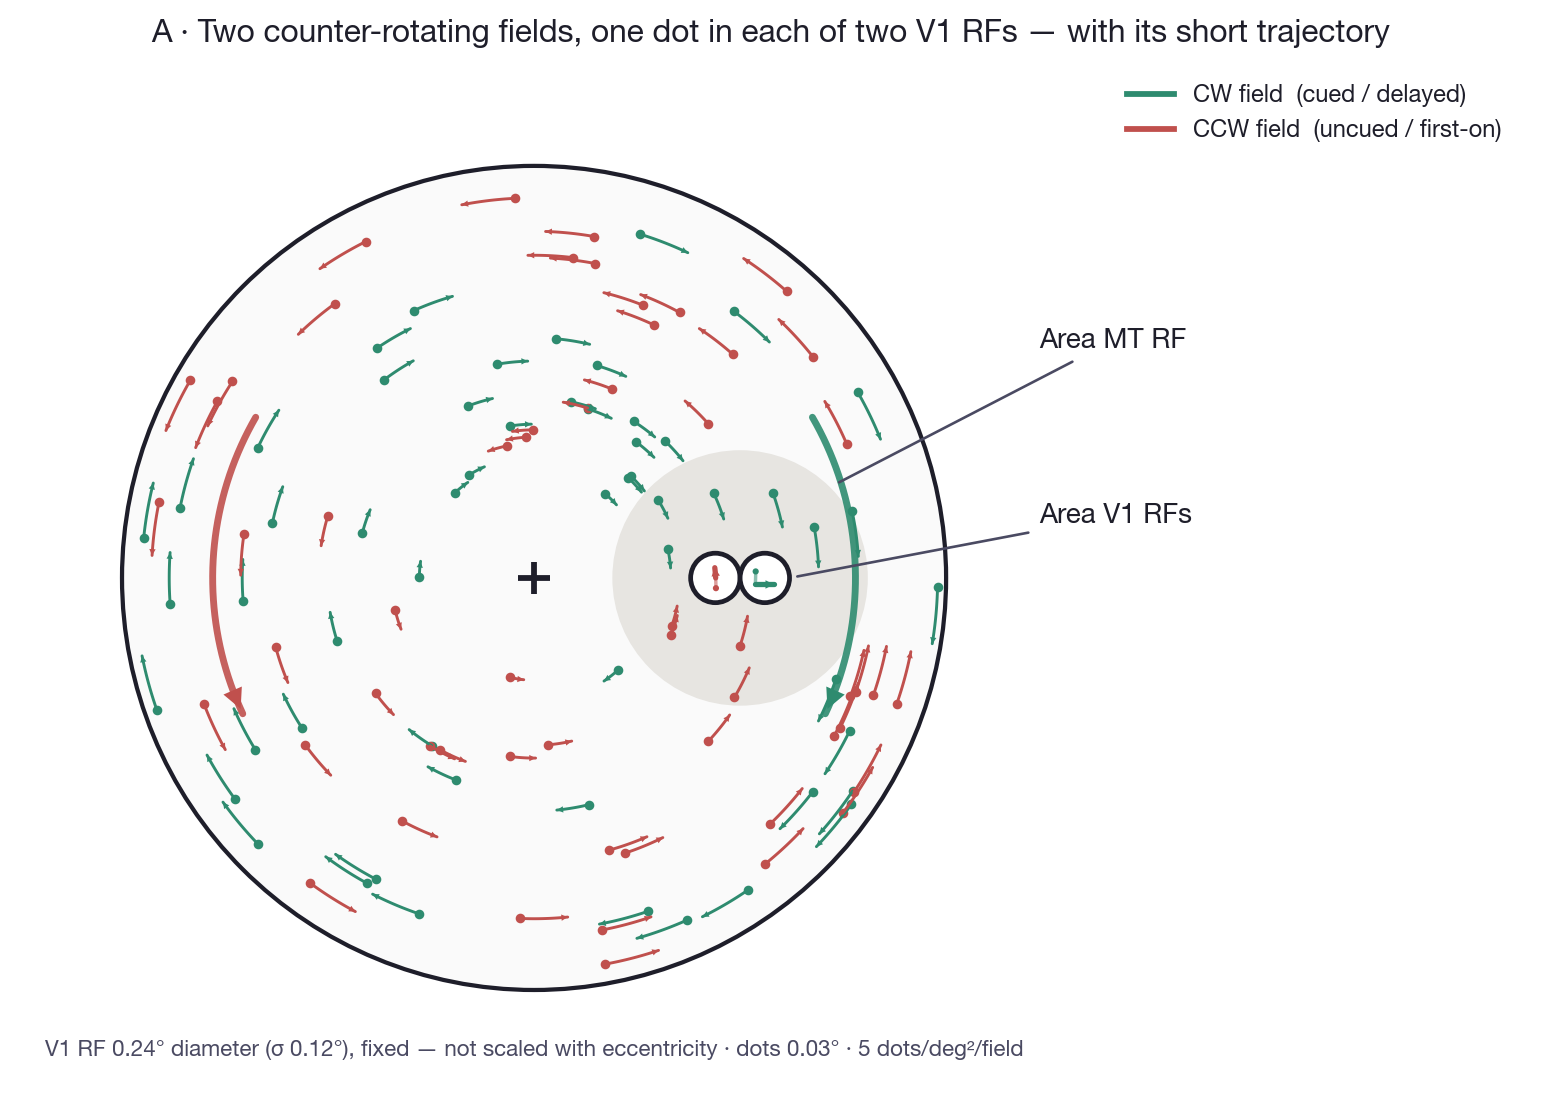
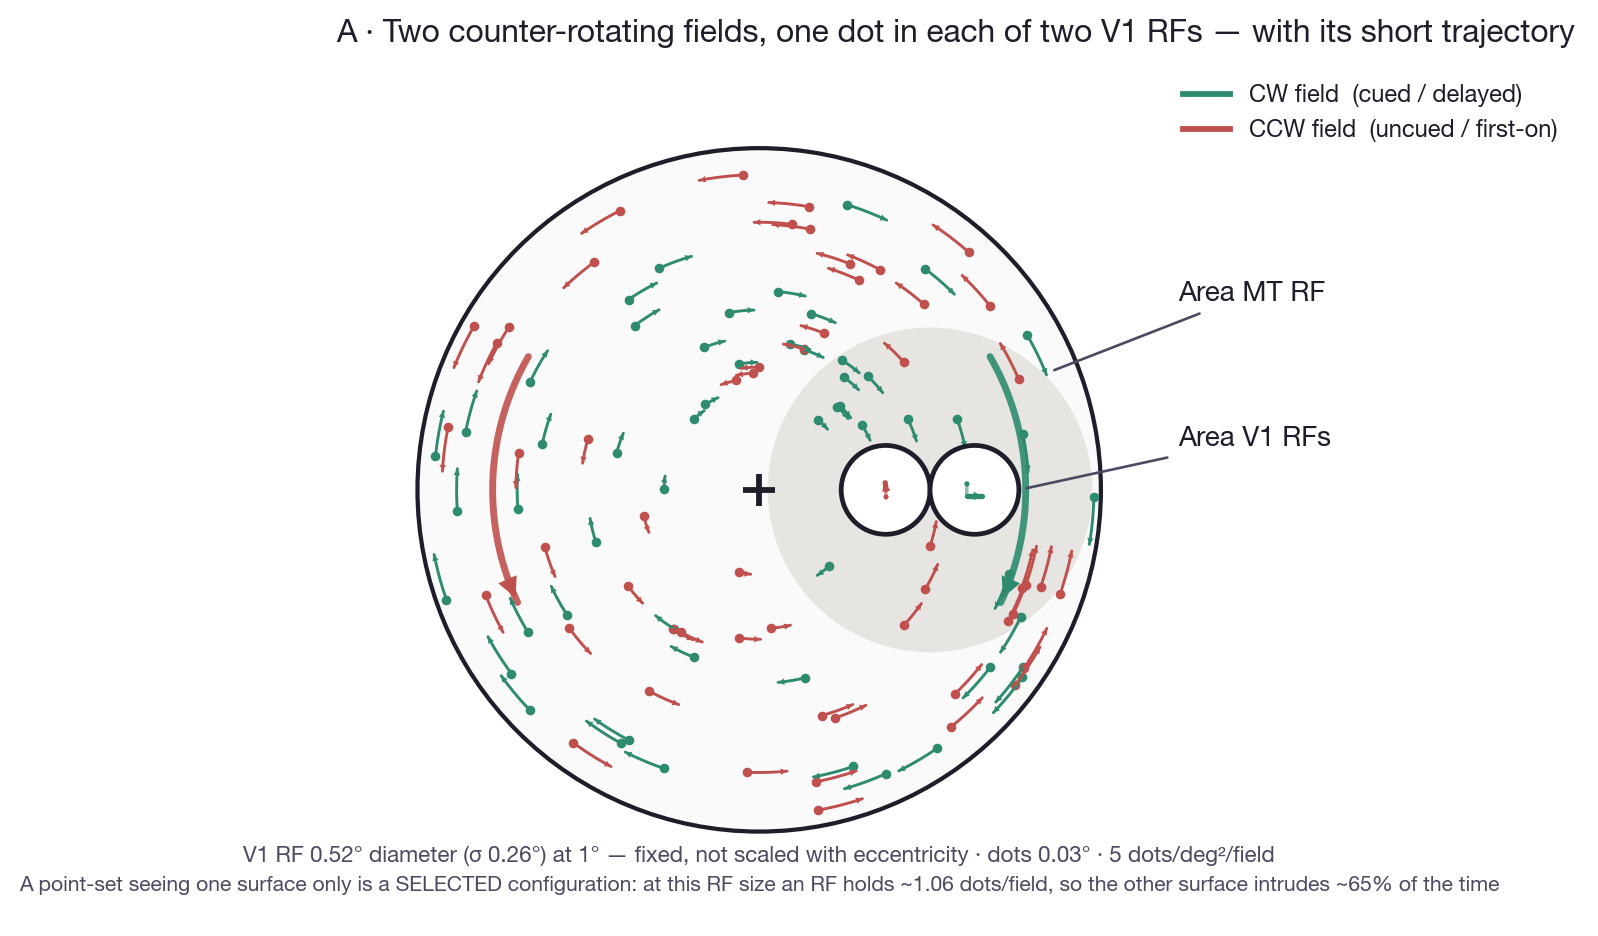
Schematic: V1 RFs at the upper end of realistic (0.52 deg)
GS: this is a schematic, so draw the RFs bigger — at the upper end of realistic.
sigma 0.12 -> 0.26, i.e. RF diameter 0.24 -> 0.52 deg at E = 1 deg. MT RF radius
0.62 -> 0.95 so it still visibly encloses both.

WHERE THE CEILING IS, at E = 1 deg (diameter):
  Dow 1981 cRF                                    0.130
  hcps_rfrule('small')  = the MT patch the model runs   0.240   <- was
  hcps_rfrule('large')                            0.380
  Dumoulin & Wandell pRF, sigma = 0.1 + 0.15E     0.520   <- now
  Freeman & Simoncelli V1 pooling, s = 0.26E      0.520
  summation field, 5x cRF                         0.650   <- the extreme
  Freeman & Simoncelli V2 pooling                 0.960   <- not V1 at all

0.52 is where two independent human estimates agree, and the largest value still
describable as a V1 receptive field. Sources in v1_rf_sizes.md.

Containment margin goes 1.68x -> 3.63x.

⚠ ADDED, because the bigger RF makes it matter: at 0.52 deg an RF holds ~1.06
dots per field, so the other surface intrudes ~65% of the time. The drawn pure
pair is a SELECTED configuration, not the typical one — which is exactly why
hcps_twops.m searches for such pairs across seeds. Now stated on figure A and
printed by the script, so no caption can imply purity is generic.

Not pushed — travelling.

diff --git a/Agents/Modeling/sb2010/ps_two_rf_figure.py b/Agents/Modeling/sb2010/ps_two_rf_figure.py
@@ -12,13 +12,18 @@ and conventions follow Figure 2 of the website's computational section
      rotation and the probe itself.
 
 RF SIZE — fixed, NOT scaled with eccentricity (GS: for the toy model we do not
-scale). Set to the size the real model already uses at this eccentricity:
+scale), and drawn at the UPPER END of what can still honestly be called a V1
+receptive field, because this is a schematic:
 
-    sigma = 0.12 deg   ->   RF diameter 2*sigma = 0.24 deg
+    sigma = 0.26 deg   ->   RF diameter 2*sigma = 0.52 deg   at E = 1 deg
 
-That is `hcps_rfrule('small')` at E = 1 deg (0.05 + 0.07*1 = 0.12) and within 1%
-of the MT patch's own 0.1212 deg. So the toy is not inventing a receptive field —
-it borrows the working model's, and merely holds it constant across the display.
+Two independent human estimates land there: Dumoulin & Wandell (2008) pRF,
+sigma = 0.1 + 0.15*E; and Freeman & Simoncelli (2011) V1 pooling, s = 0.26*E.
+Both give 0.52 deg at E = 1. For scale, at the same eccentricity Dow 1981 cRF is
+0.13, `hcps_rfrule('small')` (= the MT patch the model runs) is 0.24, and 'large'
+is 0.38. The ceiling is ~0.65 (5x cRF, top of the summation-field range); past
+that the figure would be depicting V2 pooling or an fMRI population, not V1.
+See Agents/SwapPilot/WriteUps/v1_rf_sizes.md.
 
 CONTAINMENT — the model's central assumption, checked rather than assumed. The
 dot's whole extent, not just its centre, must stay inside one RF for the pre-probe
@@ -28,7 +33,13 @@ rotation AND the probe:
     translating dot       L-path, hypot(rotation, translation)     = 0.1066 deg
     + dot diameter (Minkowski sum with a disc)                     + 0.03 deg
     ------------------------------------------------------------------------
-    required 0.1431 deg   vs   RF 0.24 deg      ->  margin 1.68x
+    required 0.1431 deg   vs   RF 0.52 deg      ->  margin 3.63x
+
+⚠ THE DRAWN PAIR IS SELECTED, NOT TYPICAL. At 0.52 deg an RF holds ~1.06 dots
+per field on average, so P(the other surface also intrudes) ~ 65%. A point-set
+seeing exactly one surface is the exception at this RF size — which is precisely
+why `hcps_twops.m` has to SEARCH for such pairs across layout seeds rather than
+assume them. Any caption must not imply purity is generic.
 
 Turning is CHEAPER than going straight, so the binding case is the dot that keeps
 rotating through the probe. The script asserts the fit, so it cannot regress.
@@ -64,12 +75,16 @@ DOT_DIAM_DEG = 0.03                 # S&B dot; VRDots = 0.08
 
 # ── the RFs: FIXED size, not scaled with eccentricity ──
 ECC_DEG      = 1.0                  # the MT patch's own eccentricity
-SIGMA_DEG    = 0.12                 # hcps_rfrule('small') at E=1; patch runs 0.1212
+SIGMA_DEG    = 0.26                 # UPPER END of realistic V1 at E=1: Dumoulin pRF
+                                    # (0.1+0.15E) and Freeman&Simoncelli V1 pooling
+                                    # (0.26E) both give 2*sigma = 0.52 deg.
+                                    # 0.19 -> hcps_rfrule('large'); 0.12 -> 'small'
 RF_DIAM_DEG  = 2 * SIGMA_DEG
 RF_R_DEG     = SIGMA_DEG
 RF_LEFT      = (ECC_DEG - RF_R_DEG, 0.0)
 RF_RIGHT     = (ECC_DEG + RF_R_DEG, 0.0)
-MT_R_DEG     = 0.62                 # the MT RF enclosing both, as in fig_modelI
+MT_R_DEG     = 0.95                 # the MT RF enclosing both, as in fig_modelI;
+                                    # must exceed RF_R_DEG*3 = 0.78 to contain them
 
 # ── motion ──
 OMEGA_DEG_S  = 81.0
@@ -250,10 +265,16 @@ def fig_A(out="ps_two_rf_A.png", show_traj=False):
            else "one dot in each of two V1 RFs")
     ax.set_title(f"A · Two counter-rotating fields, {sub}",
                  fontsize=12, color=INK, pad=8)
-    ax.text(0, -lim + 0.16,
-            f"V1 RF {RF_DIAM_DEG:.2f}° diameter (σ {SIGMA_DEG:g}°), fixed — not scaled with "
-            f"eccentricity · dots {DOT_DIAM_DEG:g}° · {DENSITY:g} dots/deg²/field",
+    lam = DENSITY * np.pi * RF_R_DEG**2
+    ax.text(0, -lim + 0.30,
+            f"V1 RF {RF_DIAM_DEG:.2f}° diameter (σ {SIGMA_DEG:g}°) at {ECC_DEG:g}° — fixed, not "
+            f"scaled with eccentricity · dots {DOT_DIAM_DEG:g}° · {DENSITY:g} dots/deg²/field",
             ha="center", va="bottom", fontsize=8.5, color=INK2)
+    ax.text(0, -lim + 0.13,
+            f"A point-set seeing one surface only is a SELECTED configuration: at this RF size "
+            f"an RF holds ~{lam:.2f} dots/field, so the other surface intrudes ~{1-np.exp(-lam):.0%} "
+            f"of the time",
+            ha="center", va="bottom", fontsize=8, color=INK2, style="italic")
 
     fig.tight_layout()
     fig.savefig(out, dpi=190, bbox_inches="tight", facecolor="white")
@@ -343,6 +364,10 @@ if __name__ == "__main__":
     print(f"  + dot {DOT_DIAM_DEG:g}              = {need:.4f}")
     print(f"  RF provides                {RF_DIAM_DEG:.4f}  -> margin {RF_DIAM_DEG/need:.2f}x")
     assert need < RF_DIAM_DEG, "whole dot does not fit inside the RF"
+    lam = DENSITY * np.pi * RF_R_DEG**2
+    print(f"\nPURITY (the drawn pair is SELECTED, not typical):")
+    print(f"  dots per field per RF = {lam:.3f}"
+          f"  -> P(other surface intrudes) = {1-np.exp(-lam):.0%}")
     print()
     fig_A("ps_two_rf_A_static.png", show_traj=False)
     fig_A("ps_two_rf_A_traj.png",   show_traj=True)
